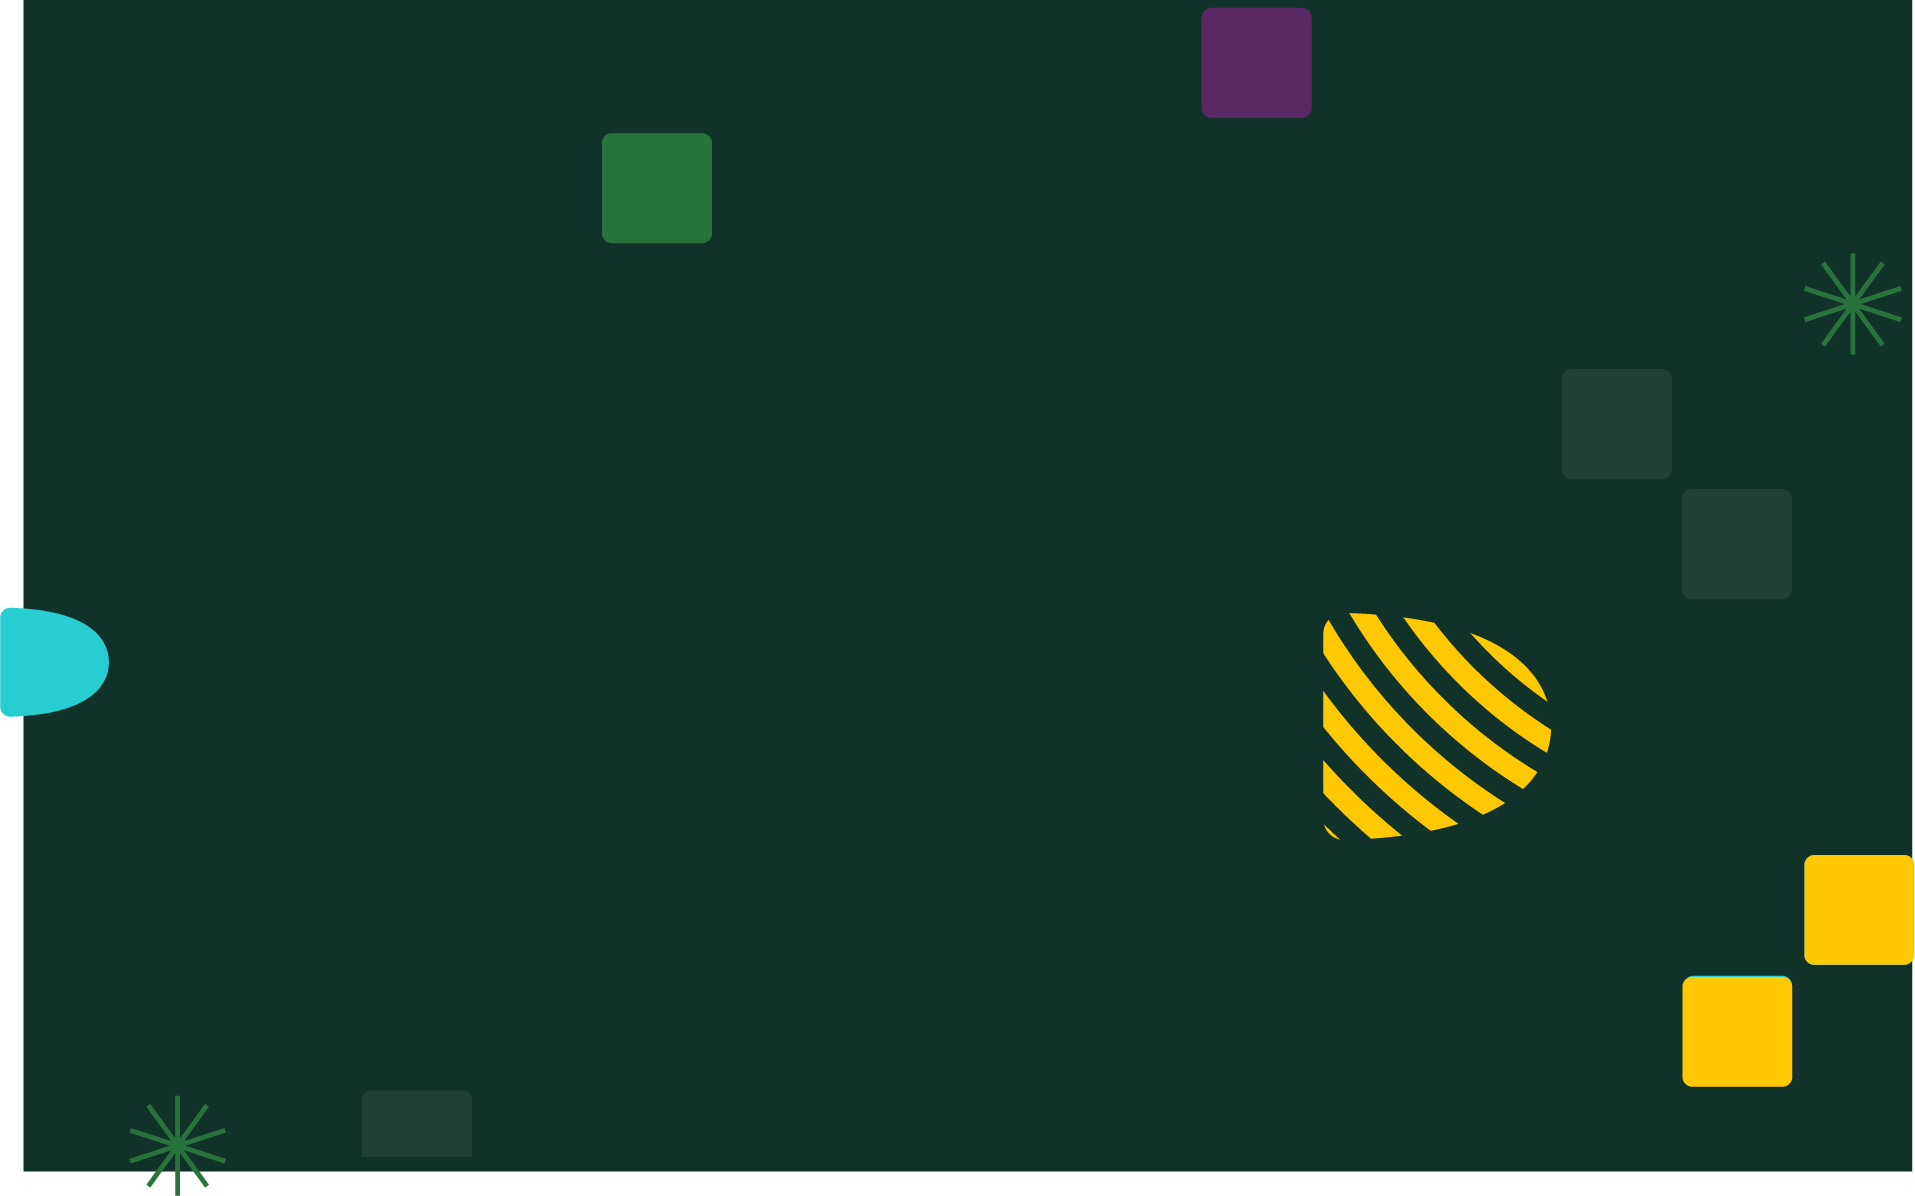
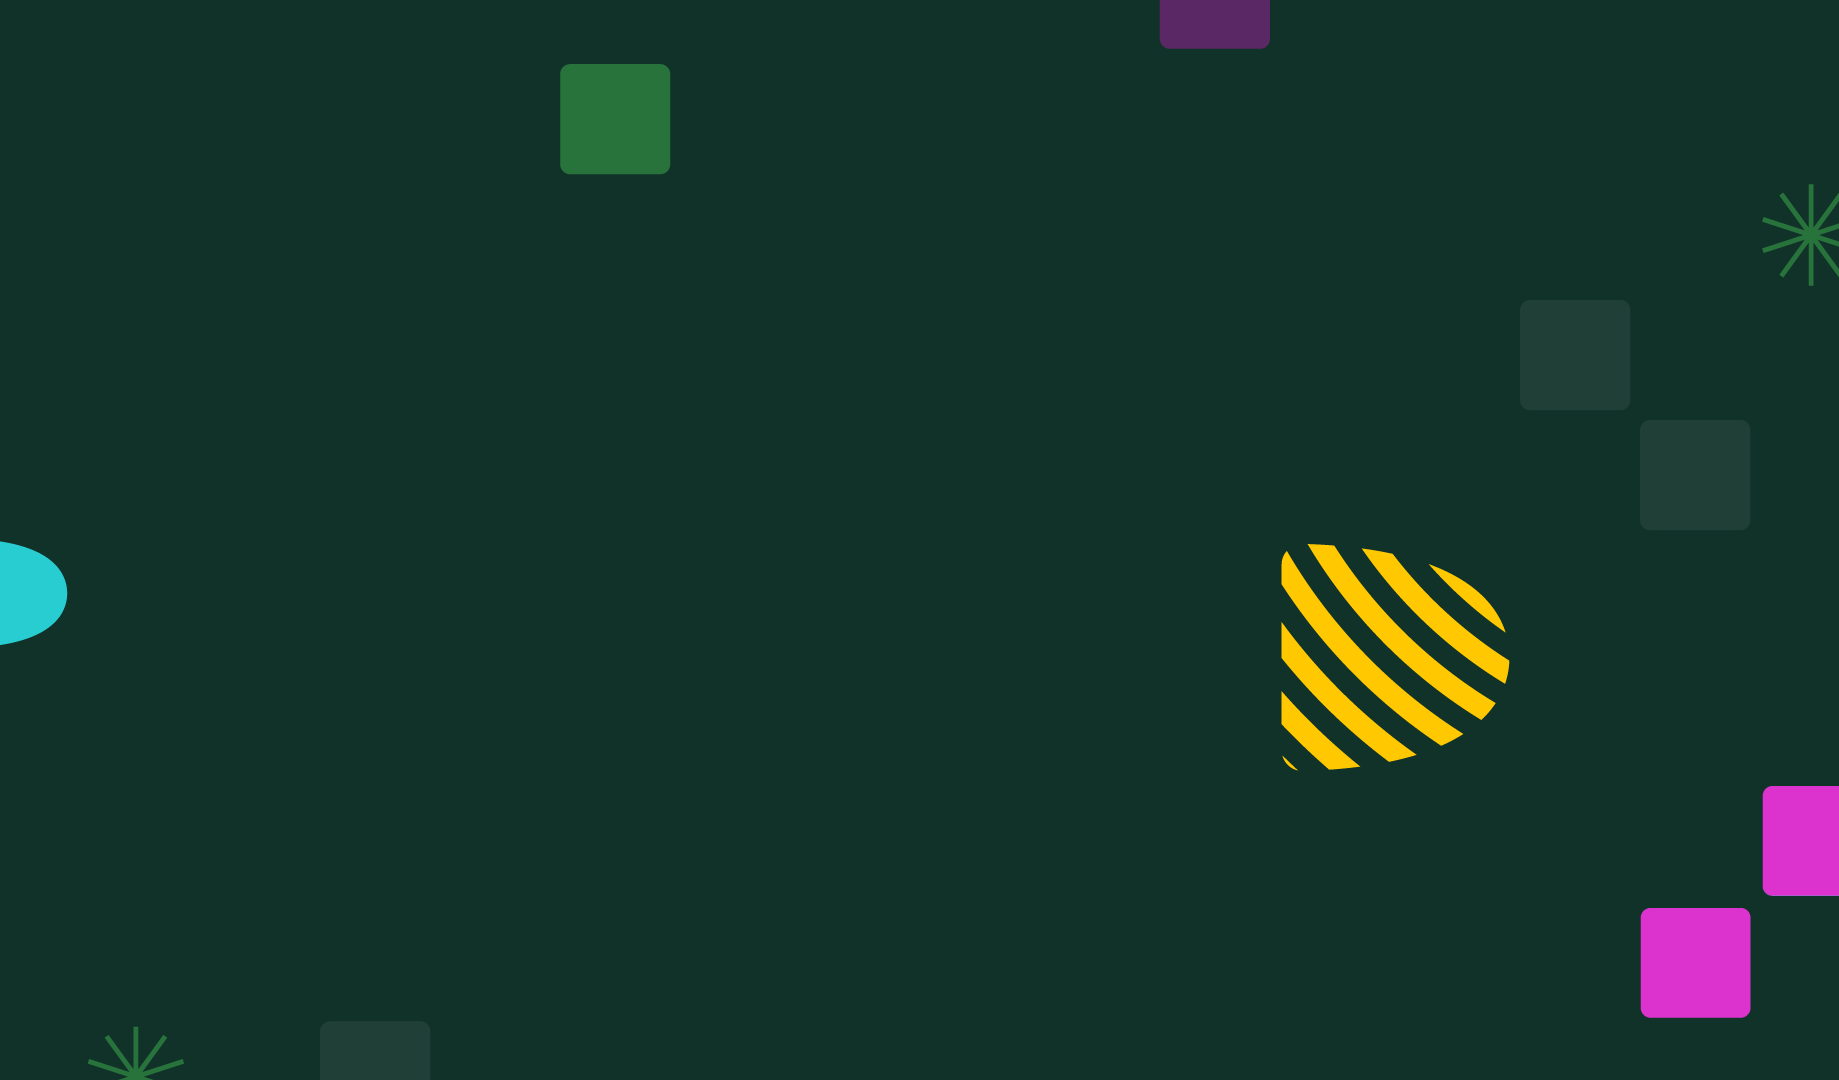
update title and background assets

diff --git a/index.html b/index.html
@@ -15,7 +15,7 @@
 
   <header>
     <div class="header-content">
-      <h1>Copa dos Sabores</h1>
+      <h1>Sabores<br>na Copa</h1>
       <p>Descubra sabores que contam histórias<br>das nações da Copa pelo mundo.<br>Clique em um país e veja a receita.</p>
       
       <!-- Glassmorphic Search Panel -->
